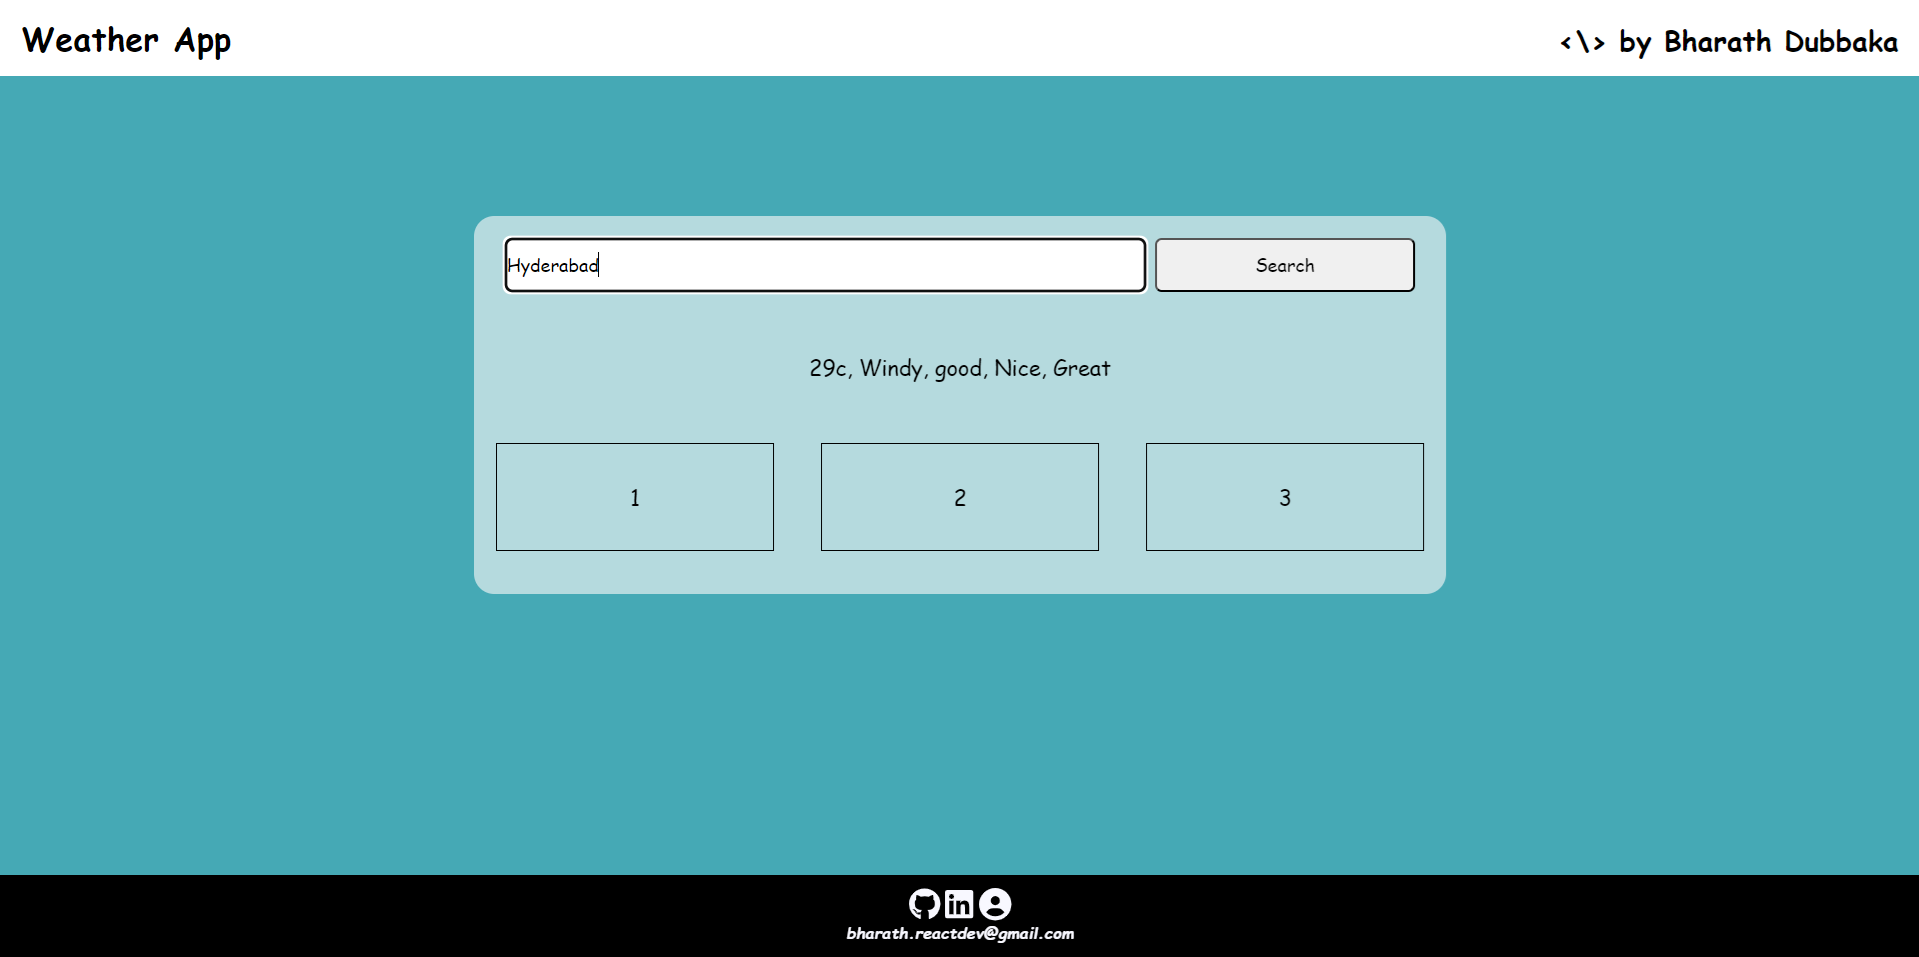
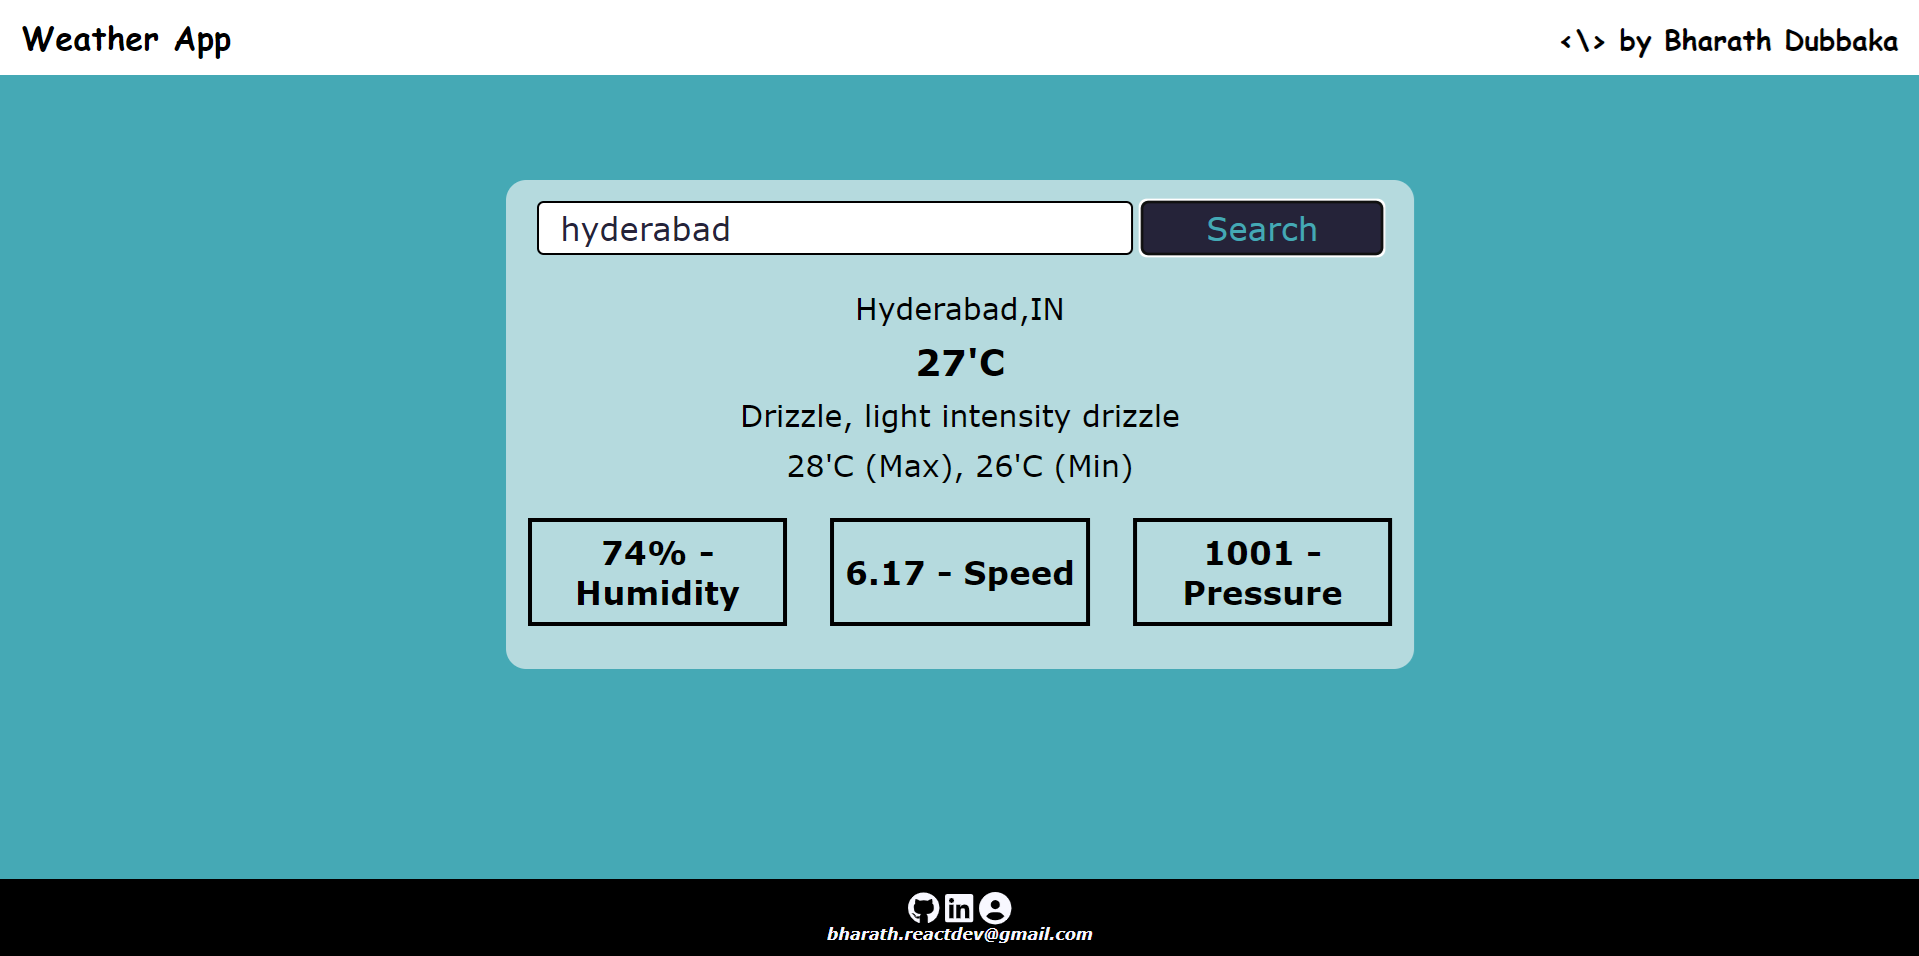
style edits

diff --git a/15-WeatherAppJS/app.js b/15-WeatherAppJS/app.js
@@ -30,11 +30,10 @@ let dataCall = function (data) {
    let tempMax = Math.ceil(data.main.temp_max);
    let tempMin = Math.floor(data.main.temp_min);
    let box = ` <div class="inner">
-         <div class="name">${name},${data.sys.country}</div>
-         <div class="temp">${temp}'C</div>
-         <div class="description">${description}, ${data.weather[0].description}</div>
-         <div class="tempMaxMin">${tempMax}'C (Max) ${tempMin}'C (Min) </div>
-         <div class="temp"></div>
+         <div class="name  items">${name},${data.sys.country}</div>
+         <div class="temp items">${temp}'C</div>
+         <div class="description items">${description}, ${data.weather[0].description}</div>
+         <div class="tempMaxMin items">${tempMax}'C (Max), ${tempMin}'C (Min) </div>
       </div>`;
    // details.appendChild(box);
    details.innerHTML = box;

diff --git a/15-WeatherAppJS/style.css b/15-WeatherAppJS/style.css
@@ -65,7 +65,7 @@ body {
    flex-direction: column;
    /* margin: 2rem auto; */
    margin: auto;
-   width: 45rem;
+   width: 42rem;
    background: rgba(255, 250, 250, 0.6);
    padding: 1rem;
    border-radius: 15px;
@@ -108,6 +108,13 @@ button {
    justify-content: center;
    align-items: center;
 }
+.temp {
+   font-size: larger;
+   font-weight: 900;
+}
+.items {
+   margin: 10px auto;
+}
 .icons {
    width: 100%;
    display: flex;
@@ -122,6 +129,7 @@ button {
    display: flex;
    align-items: center;
    justify-content: center;
+   font-weight: 900;
 }
 /* footer */
 .footer {
@@ -185,6 +193,6 @@ footer a:hover {
    input,
    .details,
    .icon {
-      font-size: 1rem;
+      font-size: 0.86rem;
    }
 }
